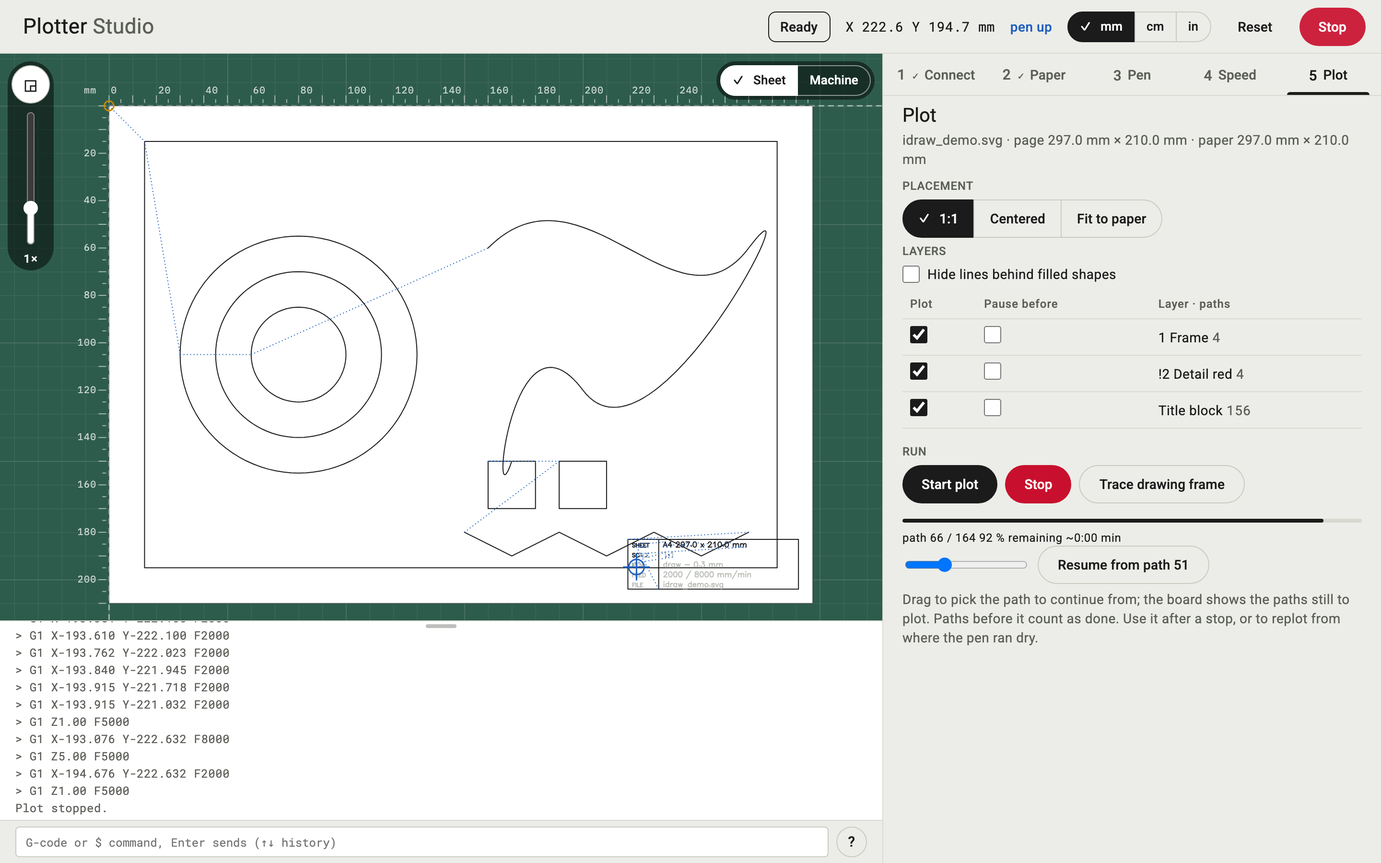
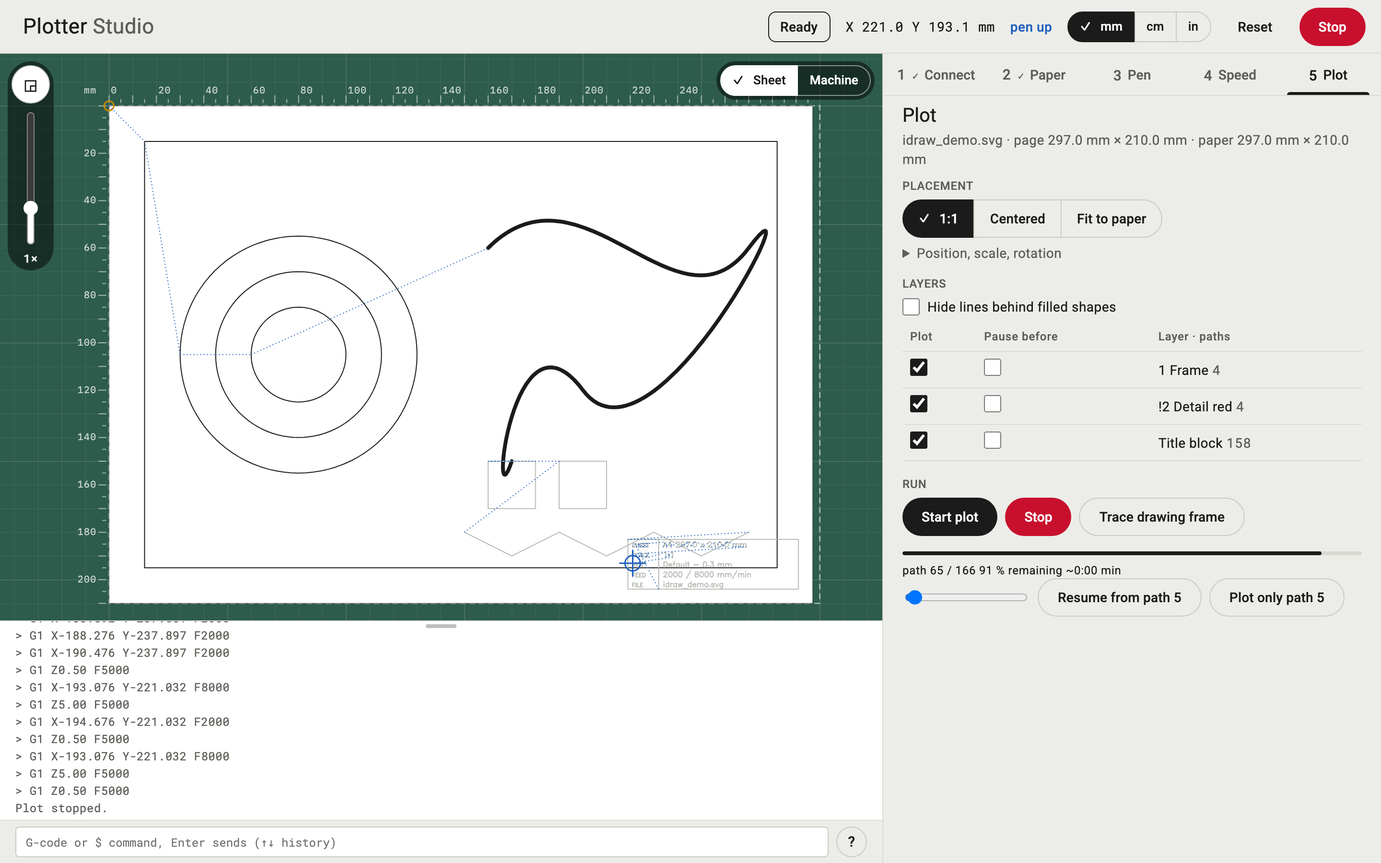
Path picker in the Plot step: click a path on the board (crosshair over a path) or drag the slider, Resume from path N or Plot only path N, without a stop first; plot takes an end index; e2e suite at 23 checks

diff --git a/extensions/idraw_web.html b/extensions/idraw_web.html
@@ -118,7 +118,7 @@ header{flex:0 0 56px}
 #zoom{display:block;margin:8px auto 4px;writing-mode:vertical-lr;direction:rtl;height:140px;width:18px;accent-color:var(--md-surface-container-lowest);cursor:pointer}
 #zoomlbl{display:block;text-align:center;font:500 12px/18px var(--f-mono);color:#fff;pointer-events:none}
 .tools{position:absolute;top:8px;left:8px;z-index:1;width:48px;padding:4px;background:rgba(0,0,0,.5);border-radius:28px;text-align:center}
-.board svg.pan{cursor:grab} .board svg.pan:active{cursor:grabbing} .board svg.movable{cursor:move}
+.board svg.pan{cursor:grab} .board svg.pan:active{cursor:grabbing} .board svg.movable{cursor:move} .board svg.pick{cursor:crosshair}   /* pick: over a path a click would pick */
 details#adj{margin:2px 0 6px} details#adj summary{cursor:pointer;color:var(--md-on-surface-variant);margin-bottom:8px} details#adj .seg .btn{padding:0 12px} .tf.ang{width:96px}
 #tbpos{font-size:20px;background:var(--md-surface-container-lowest);border-color:var(--md-outline)}
 .split{flex:1 1 auto;min-height:0;display:grid;grid-template-columns:minmax(0,1fr) minmax(440px,520px)}
@@ -158,6 +158,7 @@ details#adj{margin:2px 0 6px} details#adj summary{cursor:pointer;color:var(--md-
 .stroke{fill:none;stroke:var(--ink-faint);stroke-linecap:round;stroke-linejoin:round}
 .stroke.done{stroke:var(--ink)}
 .stroke.out{stroke:var(--md-amber)}     /* leaves the sheet or the machine travel */
+.stroke.sel{stroke:var(--ink);stroke-width:var(--sel-w)}   /* picked for Resume or Plot only */
 .penmark.up,#trace .up,#trace .travel{stroke:var(--pen-up)} .penmark.down,#trace .down{stroke:var(--pen-down)}
 .ruler text{font-family:var(--f-draft-mono);fill:rgba(255,255,255,.75)}
 .ruler line{stroke:rgba(255,255,255,.55)}
@@ -260,6 +261,7 @@ let S = null;            // snapshot from the server
 let step = 0;
 let jogIdx = 1;
 let done = 0;            // strokes plotted so far
+let pick = null;         // path picked on the board or with the slider (index) for Resume and Plot only; null = follow the progress
 let adjOpen = false, alignRef = 'sheet', alignMargin = 10, rotStep = 90;   // placement details: open, align to sheet or margin, margin in mm, rotation step
 const $ = id => document.getElementById(id);
 
@@ -280,7 +282,7 @@ async function cmd(name, args) {
 function connectEvents() {
   const es = new EventSource('/api/events');
   es.addEventListener('snapshot', e => {
-    const prev = S; S = JSON.parse(e.data); done = S.progress ? S.progress.i : 0;
+    const prev = S; S = JSON.parse(e.data); done = S.progress ? S.progress.i : 0; pick = null;
     if (prev && (prev.svg_name !== S.svg_name || prev.test_file !== S.test_file)) trace.length = 0;   // another drawing: old journey is meaningless
     renderAll();
   });
@@ -386,9 +388,8 @@ function renderPanel() {
       + grp('Layers', `<label class="row"><input type="checkbox" id="hiding" ${S.hiding ? 'checked' : ''}> Hide lines behind filled shapes</label>
         <table class="layers"><tr><th>Plot</th><th>Pause before</th><th>Layer · paths</th></tr>${rows || '<tr><td colspan="3">No layers. Open an SVG with paths.</td></tr>'}</table>`)
       + grp('Run', `<div class="row"><button class="btn filled" data-cmd="plot">Start plot</button><button class="btn danger" data-cmd="stop">Stop</button><button class="btn outlined" data-cmd="frame" data-args='{"kind":"drawing"}'>Trace drawing frame</button></div>
-        <div class="progress"><i id="pbar" style="width:${pct}%"></i></div><div class="mono body-small" id="ptxt">${progressText()}</div>
-        ${p && st.status !== 'plotting' && st.status !== 'paused' ? `<div class="row"><input type="range" id="resumeAt" min="0" max="${S.strokes.length}" value="${Math.min(done, S.strokes.length)}" aria-label="Resume from path"><button class="btn outlined" id="resumeBtn">Resume from path ${Math.min(done, S.strokes.length) + 1}</button></div>
-        <p>Drag to pick the path to continue from; the board shows the paths still to plot. Paths before it count as done. Use it after a stop, or to replot from where the pen ran dry.</p>` : ''}`);
+        ${p ? `<div class="progress"><i id="pbar" style="width:${pct}%"></i></div><div class="mono body-small" id="ptxt">${progressText()}</div>` : ''}
+        ${S.strokes.length && st.status !== 'plotting' && st.status !== 'paused' ? `<div class="row"><input type="range" id="resumeAt" min="0" max="${S.strokes.length - 1}" value="${pickIdx()}" aria-label="Path" title="Click a path on the board or drag the slider"><button class="btn outlined" id="resumeBtn" title="Plot from this path to the end; the paths before count as done">Resume from path ${pickIdx() + 1}</button><button class="btn outlined" id="onlyBtn" title="Plot just this path, for a line the pen skipped">Plot only path ${pickIdx() + 1}</button></div>` : ''}`);
   }
   $('panel').innerHTML = h;
   wirePanel();
@@ -424,10 +425,26 @@ function outsideMsg() {
 function wireResume() {
   const hb = $('hiding'); if (hb) hb.onchange = () => cmd('set_hiding', {on: hb.checked});
   const r = $('resumeAt'); if (!r) return;
-  r.oninput = () => { done = +r.value; markDone(); $('resumeBtn').textContent = `Resume from path ${done + 1}`; };
-  $('resumeBtn').onclick = () => cmd('plot', {start: +r.value});
+  r.oninput = () => setPick(+r.value);
+  $('resumeBtn').onclick = () => { pick = null; cmd('plot', {start: +r.value}); };
+  $('onlyBtn').onclick = () => { pick = null; cmd('plot', {start: +r.value, end: +r.value + 1}); };
 }
-function renderProgress() { if (step !== 4) return; const p = S.progress; $('pbar').style.width = (p.total ? 100 * p.done / p.total : 0) + '%'; $('ptxt').textContent = progressText(); }
+const pickIdx = () => pick != null ? pick : (done < S.strokes.length ? done : 0);   // after a finished plot: the first path
+function setPick(i) {   // the board marks the paths before i as done and path i as picked
+  pick = i; done = i; markDone();
+  const r = $('resumeAt'); if (!r) return;
+  r.value = i; $('resumeBtn').textContent = `Resume from path ${i + 1}`; $('onlyBtn').textContent = `Plot only path ${i + 1}`;
+}
+// index of the stroke nearest to x/y (mm) within tol mm, or -1
+function nearestStroke(x, y, tol) {
+  let best = -1, bd = tol * tol;
+  S.strokes.forEach((s, i) => { for (let j = 1; j < s.pts.length; j++) {
+    const [ax, ay] = s.pts[j - 1], dx = s.pts[j][0] - ax, dy = s.pts[j][1] - ay, l = dx * dx + dy * dy;
+    const t = l ? Math.max(0, Math.min(1, ((x - ax) * dx + (y - ay) * dy) / l)) : 0, d = (ax + t * dx - x) ** 2 + (ay + t * dy - y) ** 2;
+    if (d < bd) { bd = d; best = i; } } });
+  return best;
+}
+function renderProgress() { if (step !== 4) return; if (!$('pbar')) return renderPanel(); const p = S.progress; $('pbar').style.width = (p.total ? 100 * p.done / p.total : 0) + '%'; $('ptxt').textContent = progressText(); }
 function syncPenFields() { const pr = S.state.profile; ['pen_up', 'pen_down'].forEach(k => { const e = $(k); if (e && document.activeElement !== e) e.value = pr[k]; }); }
 
 function wirePanel() {
@@ -493,24 +510,34 @@ function jog(x, y) { const s = JOG[u()][jogIdx] * UNIT[u()]; cmd('jog', {dx: x *
 let fitMachine = false;   // false: view fits the paper; true: view fits the machine travel
 $('zoom').oninput = e => { zoomIdx = +e.target.value; $('zoomlbl').textContent = ZOOM[zoomIdx] + '×'; if (zoomIdx <= 2) panX = panY = 0; renderPreview(); };
 { // with Position, scale, rotation open in the Plot step a drag on the drawing moves it; otherwise a drag pans (above 1x); double-click resets zoom and pan
-  const svg = $('preview'); let drag = null, move = null;
+  const svg = $('preview'); let drag = null, move = null, down = null;
   const mm = e => { const p = svg.createSVGPoint(); p.x = e.clientX; p.y = e.clientY; return p.matrixTransform(svg.getScreenCTM().inverse()); };
   const onDrawing = e => { const c = S && S.content, p = mm(e);
     return c && step === 4 && adjOpen && !S.state.busy && p.x >= c[0] && p.x <= c[2] && p.y >= c[1] && p.y <= c[3]; };
   const shift = (dx, dy) => svg.querySelectorAll('#strokes path:not(.tb)').forEach(el => el.setAttribute('transform', `translate(${dx} ${dy})`));
   svg.onpointerdown = e => {
+    down = [e.clientX, e.clientY];
     if (onDrawing(e)) { const p = mm(e); move = [p.x, p.y, 0, 0]; svg.setPointerCapture(e.pointerId); }
     else if (ZOOM[zoomIdx] > 1) { drag = [e.clientX, e.clientY, panX, panY]; svg.setPointerCapture(e.pointerId); }
   };
   svg.onpointermove = e => {
     if (move) { const p = mm(e); move[2] = p.x - move[0]; move[3] = p.y - move[1]; shift(move[2], move[3]); }
     else if (drag) { panX = drag[2] - (e.clientX - drag[0]) / pxPerMm; panY = drag[3] - (e.clientY - drag[1]) / pxPerMm; renderPreview(); }
-    else svg.classList.toggle('movable', onDrawing(e));
+    else { const mv = onDrawing(e); svg.classList.toggle('movable', mv); hoverPick(mv ? null : e); }
   };
-  svg.onpointerup = svg.onpointercancel = () => {
+  svg.onpointerup = svg.onpointercancel = e => {
     if (move && (move[2] || move[3])) cmd('move_by', {dx: move[2], dy: move[3]});
-    drag = move = null;
+    else if (e.type === 'pointerup' && down && Math.hypot(e.clientX - down[0], e.clientY - down[1]) < 4 && $('resumeAt')) {   // a click picks a path
+      const p = mm(e), i = nearestStroke(p.x, p.y, px(e.pointerType === 'touch' ? 20 : 8));
+      if (i >= 0) setPick(i);
+    }
+    drag = move = down = null;
   };
+  let hov = null, queued = false;   // one nearest-path search per frame, not per pointer event
+  const hoverPick = e => { hov = e; if (queued) return; queued = true; requestAnimationFrame(() => {
+    const p = hov && $('resumeAt') && mm(hov); queued = false;
+    svg.classList.toggle('pick', !!p && nearestStroke(p.x, p.y, px(8)) >= 0); }); };
+  svg.onpointerleave = () => svg.classList.remove('pick');
   svg.ondblclick = () => { zoomIdx = 2; panX = panY = 0; $('zoom').value = 2; $('zoomlbl').textContent = '1×'; renderPreview(); };
 }
 // command reference: [command, purpose, reply]; '*' = not verified on the DrawCore board
@@ -601,8 +628,8 @@ function renderPreview() {
     <text x="${mx + mw - px(6)}" y="${my + mh - px(6)}" font-size="${px(12)}" text-anchor="end" fill="rgba(255,255,255,.65)" font-family="var(--f-draft)">${st.model} · ${fmt(mw)} × ${fmt(mh)}</text>`;
   g += `<rect x="0" y="0" width="${pw}" height="${ph}" fill="var(--paper)" stroke="rgba(0,0,0,.35)" stroke-width="${px(1)}"/>`;
   g += rulers(pw, ph);
-  g += `<g id="strokes" stroke-width="${lw}">` + S.strokes.map((s, i) =>
-    `<path class="stroke ${i < done ? 'done' : ''} ${s.out ? 'out' : ''} ${s.layer === S.tb_index ? 'tb' : ''}" d="M${s.pts.map(p => p[0].toFixed(2) + ' ' + p[1].toFixed(2)).join('L')}"/>`).join('') + '</g>';
+  g += `<g id="strokes" stroke-width="${lw}" style="--sel-w:${selW()}">` + S.strokes.map((s, i) =>
+    `<path class="stroke ${i < done ? 'done' : ''} ${i === pick ? 'sel' : ''} ${s.out ? 'out' : ''} ${s.layer === S.tb_index ? 'tb' : ''}" d="M${s.pts.map(p => p[0].toFixed(2) + ' ' + p[1].toFixed(2)).join('L')}"/>`).join('') + '</g>';
   g += `<circle cx="0" cy="0" r="${px(5)}" fill="none" stroke="var(--origin)" stroke-width="${px(1.5)}"/>`;
   g += `<g id="trace" class="penmark" stroke-width="${px(1)}" stroke-dasharray="${px(3)} ${px(3)}">${traceHtml()}</g>`;
   g += `<g id="pen" class="penmark ${st.z_up === false ? 'down' : 'up'}" transform="translate(${st.x} ${st.y})" stroke-width="${px(1.5)}"><circle r="${px(8)}" fill="none"/><line x1="${-px(14)}" x2="${px(14)}"/><line y1="${-px(14)}" y2="${px(14)}"/></g>`;
@@ -650,7 +677,8 @@ function renderPen() {
   if (st.bounds_known !== renderPen.lastBounds || st.model !== renderPen.lastModel) renderPreview();
   renderPen.lastBounds = st.bounds_known; renderPen.lastModel = st.model;
 }
-function markDone() { const ps = document.querySelectorAll('#strokes path'); ps.forEach((p, i) => p.classList.toggle('done', i < done)); }
+function markDone() { const ps = document.querySelectorAll('#strokes path'); ps.forEach((p, i) => { p.classList.toggle('done', i < done); p.classList.toggle('sel', i === pick); }); }
+const selW = () => Math.max(px(4), 2 * (S.state.profile.line_width || 0.3));   // picked path: twice the line, at least 4 screen px
 
 // ---------------------------------------------------------------- global controls
 $('units').querySelectorAll('button').forEach(b => b.onclick = () => cmd('set_unit', {unit: b.dataset.unit}));

diff --git a/extensions/test_idraw_e2e.py b/extensions/test_idraw_e2e.py
@@ -453,6 +453,34 @@ def check_resume_from_path(page):
     expect(page.locator("#strokes path.done")).to_have_count(n)
 
 
+def check_path_picker(page):
+    """Plot step without a stop first: a click on a path on the board picks it, Plot only draws just that path."""
+    tab(page, 4)
+    expect(page.locator("#onlyBtn")).to_have_text("Plot only path 1")
+    n = page.evaluate("() => S.strokes.length")
+    x, y = page.evaluate("""() => { const el = document.querySelectorAll('#strokes path')[5];
+        const p = el.getPointAtLength(el.getTotalLength() / 2).matrixTransform(el.getScreenCTM()); return [p.x, p.y]; }""")
+    page.mouse.move(x, y)
+    expect(page.locator("#preview")).to_have_class(re.compile(r"\bpick\b"))   # crosshair over a path
+    page.mouse.click(x, y)
+    expect(page.locator("#onlyBtn")).to_have_text("Plot only path 6")
+    expect(page.locator("#resumeBtn")).to_have_text("Resume from path 6")
+    expect(page.locator("#strokes path.sel")).to_have_count(1)
+    assert page.evaluate("() => [...document.querySelectorAll('#strokes path')].findIndex(p => p.classList.contains('sel'))") == 5
+    expect(page.locator("#strokes path.done")).to_have_count(5)
+    box = page.locator("#preview").bounding_box()
+    page.mouse.click(box["x"] + 5, box["y"] + 5)              # empty mat, far from any path: the pick stays
+    expect(page.locator("#preview")).not_to_have_class(re.compile(r"\bpick\b"))
+    expect(page.locator("#onlyBtn")).to_have_text("Plot only path 6")
+    click_cmd(page, "#onlyBtn")
+    expect(page.locator("#log")).to_contain_text("Plotting only path 6 of %d." % n, timeout=10000)
+    expect(page.locator("#log")).to_contain_text("Plot finished.", timeout=60000)
+    expect(page.locator("#status")).to_have_text("ready", timeout=15000)
+    assert page.evaluate("() => S.progress.i") == 6           # stopped after path 6, not at the end
+    expect(page.locator("#strokes path.sel")).to_have_count(0)
+    expect(page.locator("#onlyBtn")).to_have_text("Plot only path 7")
+
+
 def check_hidden_lines(page):
     """Plot step: the checkbox reloads the drawing with lines behind fills removed."""
     tab(page, 3)
@@ -534,7 +562,7 @@ CHECKS = [check_connect_and_home, check_steps_fit_without_scrolling, check_keybo
           check_splitter, check_zoom_and_pan, check_title_block_corner, check_reset_button,
           check_plot_with_pause, check_stop_with_escape, check_stop_button, check_test_drawing_dropdown,
           check_outside_sheet_warning, check_travel_trace_during_plot, check_model_dropdown,
-          check_resume_from_path, check_hidden_lines, check_placement_adjust, check_drag_drawing]
+          check_resume_from_path, check_path_picker, check_hidden_lines, check_placement_adjust, check_drag_drawing]
 
 
 def main():

diff --git a/extensions/idraw_server.py b/extensions/idraw_server.py
@@ -20,7 +20,8 @@ motors_off, frame(kind=paper|drawing), test(name), test_stroke, cycle, plot, sto
 resume, set_profile(fields), load_profile(name), save_profile(name), set_paper(w,h,
 name,orient), set_pos_mode(mode), set_placement(mode: 1:1|center|fit), set_layer(index,enabled,pause),
 set_model(name), set_unit(unit), set_title_block(corner: tl|tr|br|bl|off), load_test(name from tests/, "" = the document), reset.
-    plot takes an optional "start" (stroke index) to resume or replot from that path.
+    plot takes an optional "start" (stroke index) to resume or replot from that path, and an
+    optional "end" (stroke index to stop before; start + 1 plots only that path, without layer pauses).
     set_hiding(on): hidden-line removal, lines behind filled shapes are dropped on load.
     Free placement (switches the placement to "custom"): set_transform(x, y: top-left of the drawing
     in mm; scale: factor, kept about the drawing's centre; rot: angle in degrees, rounded to 15),
@@ -303,9 +304,17 @@ class Session:
             if not strokes:
                 return {"error": "No paths selected."}
             start = int(a.get("start", 0))          # resume/replot from this stroke index
-            if start:
+            end = a.get("end")
+            if end is not None:
+                end = int(end)
+                if not 0 <= start < end <= len(strokes):
+                    return {"error": "Paths %d to %d do not exist." % (start + 1, end)}
+                pauses = {}     # ponytail: no layer pauses in a part plot, add when a range UI needs them
+            if end == start + 1:
+                p.log("Plotting only path %d of %d." % (start + 1, len(strokes)))
+            elif start:
                 p.log("Resuming from path %d of %d." % (start + 1, len(strokes)))
-            return self.run(p.plot_strokes, strokes, pauses, True, start)
+            return self.run(p.plot_strokes, strokes, pauses, True, start, end)
 
         # settings; these do not move the machine except a live pen height change
         if cmd == "set_profile":

diff --git a/extensions/idraw_core.py b/extensions/idraw_core.py
@@ -968,7 +968,7 @@ class Plotter:
             w.join(0.5)     # the worker reported its final status; let it exit before answering
         return bool(w and w.is_alive())
 
-    def plot_strokes(self, strokes, layer_pauses=None, finish_home=True, start=0):
+    def plot_strokes(self, strokes, layer_pauses=None, finish_home=True, start=0, end=None):
         """Plot strokes in order.
 
         strokes: [(points, feed|None, z_down|None, layer_index)]
@@ -977,9 +977,11 @@ class Plotter:
         finish_home: move to the origin at the end (not for tests).
         start: first stroke index; strokes before it count as done (resume after a stop,
                or replot from an earlier path when the pen ran dry).
+        end: stop before this stroke index (start + 1 plots one path); None = to the last.
         """
         layer_pauses = layer_pauses or {}
         start = max(0, min(start, len(strokes)))
+        end = len(strokes) if end is None else max(start, min(end, len(strokes)))
         total = sum(path_length(s[0]) for s in strokes)
         done = sum(path_length(s[0]) for s in strokes[:start])
         done0 = done
@@ -990,6 +992,8 @@ class Plotter:
         for i, (pts, feed, z_down, layer_idx) in enumerate(strokes):
             if i < start:
                 continue
+            if i >= end:
+                break
             if self._stop.is_set():
                 break
             if layer_idx in layer_pauses and layer_idx not in seen_layers:

diff --git a/extensions/test_idraw_core.py b/extensions/test_idraw_core.py
@@ -95,6 +95,20 @@ def test_resume_from():
     assert prog[0]["i"] == 2 and prog[0]["done"] == 20 and prog[-1]["i"] == 3 and prog[-1]["done"] == 30, prog
 
 
+def test_only_one_path():
+    t = Capture()
+    p = core.Plotter()
+    p.connect(t)
+    p.home()
+    t.lines.clear()
+    strokes = [([(0, 0), (10, 0)], None, None, 0), ([(20, 0), (30, 0)], None, None, 0), ([(40, 0), (50, 0)], None, None, 0)]
+    p.plot_strokes(strokes, finish_home=False, start=1, end=2)
+    moves = [l for l in t.lines if l.startswith("G1 X")]
+    assert len(moves) == 2 and moves[0].startswith("G1 X0.000 Y-20.000") and moves[1].startswith("G1 X0.000 Y-30.000"), moves
+    prog = [d for k, d in list(p.events.queue) if k == "progress"]
+    assert prog[-1]["i"] == 2 and prog[-1]["n"] == 3, prog
+
+
 def test_hide_lines():
     line = [[(0, 5), (20, 5)]]
     square = [[(5, 0), (15, 0), (15, 10), (5, 10)]]
@@ -217,6 +231,7 @@ if __name__ == "__main__":
     test_dialects()
     test_link_lost()
     test_resume_from()
+    test_only_one_path()
     test_hide_lines()
     test_origin_and_stop()
     test_raw_tracking()

diff --git a/extensions/test_idraw_server.py b/extensions/test_idraw_server.py
@@ -80,6 +80,13 @@ def main():
     assert st["status"] == "ready" and abs(st["x"]) < 1e-6
     assert call(base + "/api/cmd", {"cmd": "frame", "kind": "drawing"}) == {"ok": True}
     assert wait_idle(base)["status"] == "ready"
+    assert call(base + "/api/cmd", {"cmd": "set_layer", "index": 1, "pause": True}) == {"ok": True}
+    assert call(base + "/api/cmd", {"cmd": "plot", "start": 4, "end": 5}) == {"ok": True}   # first path of the ! layer
+    assert wait_idle(base, 10)["status"] == "ready"                                        # no pause: does not wait
+    snap = call(base + "/api/snapshot")
+    assert snap["progress"]["i"] == 5 and "Plotting only path 5 of 8." in snap["log"], snap["progress"]
+    assert "error" in call(base + "/api/cmd", {"cmd": "plot", "start": 8, "end": 9})
+    assert "error" in call(base + "/api/cmd", {"cmd": "plot", "start": 3, "end": 3})
     assert "error" in call(base + "/api/cmd", {"cmd": "nonsense"})
     httpd.shutdown()
     print("ok")

diff --git a/TESTING.md b/TESTING.md
@@ -2,9 +2,9 @@
 
 Three levels, all plain scripts that print `ok` (no test framework). Run them from `extensions/`.
 
-Logic, `python3 test_idraw_core.py`: axis mapping and G-code of a plot run, origin after jog and `G92`, stop ends after the current line, placement modes, rotation and alignment, test patterns, console parser (G0/G1, G90/G91, G92, `$H`, `$1`).
+Logic, `python3 test_idraw_core.py`: axis mapping and G-code of a plot run, origin after jog and `G92`, stop ends after the current line, resume from path N, plot only one path, placement modes, rotation and alignment, test patterns, console parser (G0/G1, G90/G91, G92, `$H`, `$1`).
 
-Server, `python3 test_idraw_server.py`: starts the server with the simulator on a free port and talks HTTP: snapshot with layers and strokes, connect, home, unit, placement (presets, rotate about the centre, align with margin, move, X field, bad values), layer flags, jog, plot to the end, error on an unknown command.
+Server, `python3 test_idraw_server.py`: starts the server with the simulator on a free port and talks HTTP: snapshot with layers and strokes, connect, home, unit, placement (presets, rotate about the centre, align with margin, move, X field, bad values), layer flags, jog, plot to the end, frame around the drawing, plot only one path (no layer pause, bad ranges refused), error on an unknown command.
 
 Browser, `python3 test_idraw_e2e.py`: starts the server with the simulator (40× faster) and drives the page in headless Chromium with Playwright (once: `pip install playwright`, `playwright install chromium`; `--headed` shows the browser). `reset(page)` runs before every check: fresh page without browser storage, mm, A4 landscape, 1:1, connected to the simulator, homed, pen up. Checks are therefore independent of their order, and one or more can be run by name: `python3 test_idraw_e2e.py splitter zoom_and_pan`. One function per check:
 
@@ -29,6 +29,7 @@ Browser, `python3 test_idraw_e2e.py`: starts the server with the simulator (40×
 | travel_trace_during_plot | a plot clears the manual trace, leaves dotted travel segments only, the next plot starts with an empty trace |
 | model_dropdown | Untested models carry the label and the hint; after a reconnect an AxiDraw model sends EBB commands, no G-code. |
 | resume_from_path | After a stop the Run group shows a slider and Resume from path N; the plot continues from there and finishes. |
+| path_picker | Without a stop first the Run group offers Plot only path 1; over a path the board shows the crosshair, a click picks it (thick, the paths before done), a click on the empty mat keeps the pick and drops the crosshair, Plot only draws just that path and the slider moves on to the next. |
 | hidden_lines | The checkbox in the Plot step reloads the drawing with lines behind fills split; the setting survives a reload. |
 | placement_adjust | Position, scale, rotation: rotate by 90°, a preset keeps the rotation, 15° steps and the angle field (rounded to 15°), align right to a 10 mm margin, X field, scale 50 % halves the width, back to 1:1. |
 | drag_drawing | With Position, scale, rotation open, dragging the drawing on the board moves it by the dragged distance; 1:1 brings it back. |

diff --git a/MANUAL.md b/MANUAL.md
@@ -95,11 +95,11 @@ Hide lines behind filled shapes drops the parts of lines that lie behind a fille
 
 Start plot starts. If paths leave the sheet or the machine travel, they are amber on the board, the step says how many, and Start plot asks before plotting anyway. Stop (or Esc) stops after the current line and raises the pen. Trace drawing frame moves around the drawing with the pen up.
 
-The bar under the buttons shows the path number, the share of the drawn length that is done, and the estimated time left. Travel moves are not counted, so both run a little ahead on drawings with many long jumps.
+Once a plot has run, a bar under the buttons shows the path number, the share of the drawn length that is done, and the estimated time left. Travel moves are not counted, so both run a little ahead on drawings with many long jumps.
 
-After a stop or a finished plot, a slider and "Resume from path N" appear. Drag the slider to the path to continue from; the board shows the paths still to plot, the paths before count as done. Use it after a stop or when the pen ran dry.
+Below them a slider picks a path, and so does a click on a path on the board (with a finger, within about 20 px of the line). Over a path the pointer turns into a crosshair. The picked path is drawn thick, the paths before it count as done. "Resume from path N" plots from there to the end, for example after a stop or when the pen ran dry. "Plot only path N" plots just that one path and leaves out the layer pauses, for example to redraw a line the pen skipped. After a stop the slider stands on the path where the plot stopped.
 
-![After a stop: the slider in the Run group set to path 51, the board shows the paths still to plot](docs/manual-resume.png)
+![After a stop at path 65: a click on the curve picked path 5, drawn thick, with Resume from path 5 and Plot only path 5 in the Run group](docs/manual-resume.png)
 
 ## The board
 

diff --git a/DESIGN.md b/DESIGN.md
@@ -165,7 +165,7 @@ The palette is the drafting palette, mapped onto M3 colour roles rather than gen
 
 Three signal colours with one meaning each: error red for pen down and Stop, blue (tertiary) for pen up, amber for paused, notices and the origin. Green is never a status; the mat is green. Single light scheme by choice; the sheet is physical and does not change with the system theme.
 
-Board colours stay outside the roles: pending strokes in `ink-faint`, strokes that leave the sheet or the machine travel in amber, plotted strokes in `ink`, pen cross red when down and blue when up. Manual moves (jog, console) leave a dashed trace in the same two colours; during a plot the pen-up travel between paths leaves a dotted blue trace, the strokes themselves show the pen-down part. The trace clears on home and at the start of a plot.
+Board colours stay outside the roles: pending strokes in `ink-faint`, strokes that leave the sheet or the machine travel in amber, plotted strokes in `ink`, the path picked for Resume or Plot only in `ink` at twice the line width (at least 4 screen px; over a pickable path the pointer is a crosshair), pen cross red when down and blue when up. Manual moves (jog, console) leave a dashed trace in the same two colours; during a plot the pen-up travel between paths leaves a dotted blue trace, the strokes themselves show the pen-down part. The trace clears on home and at the start of a plot.
 
 ## Typography
 

diff --git a/TODO.md b/TODO.md
@@ -19,6 +19,8 @@ Tasks and ideas for Plotter Studio. Move a line to Done when it is finished.
 
 ## Done
 
+- 1 Oct 2026: path picker in the Plot step: click a path on the board (crosshair over a path) or use the slider, Resume from path N or Plot only path N, available without a stop first; Trace drawing frame fixed; server and e2e tests use their own settings file; e2e suite at 23 checks.
+
 - 1 Oct 2026: free placement in the Plot step (X/Y, scale in percent, align to sheet or margin, rotation in 15° or 90° steps and by angle, drag on the board); e2e suite at 22 checks.
 
 - 14 Sep 2026: transport reply timeouts (expected move time plus 15 s, homing 120 s), link loss drops the connection; Resume from path N with slider after a stop; hidden-line removal in pure Python (checkbox in the Plot step, test drawing); AxiDraw (EBB) and plain GRBL dialects, marked untested; e2e suite at 20 checks.

diff --git a/README.md b/README.md
@@ -103,7 +103,7 @@ DrawCore enumerates as CH340 (USB VID:PID 1A86:7523), 115200 baud, `rts`/`dtr` o
 
 ## Status
 
-As of 14 September 2026. Built and exercised in the simulator: all five steps, jog, pen, profiles, unit switch, test drawings, plot with layer pause, stop, resume from path N, progress, preview with rulers and title block, hidden-line removal, transport timeouts, LAN access. The e2e suite has 20 checks.
+As of 1 October 2026. Built and exercised in the simulator: all five steps, jog, pen, profiles, unit switch, test drawings, plot with layer pause, stop, free placement (position, scale, rotation, align, drag on the board), path picker (click a path on the board, resume from path N or plot only that path), progress, preview with rulers and title block, hidden-line removal, transport timeouts, LAN access. The e2e suite has 23 checks.
 
 Not verified on the device yet:
 
